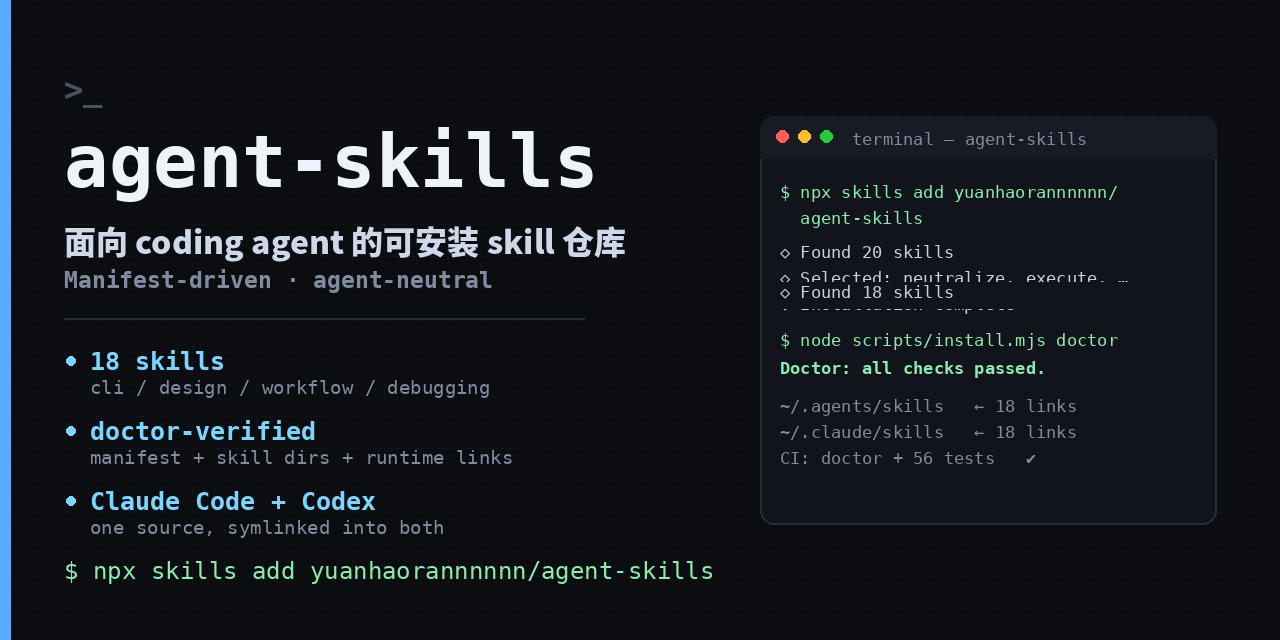
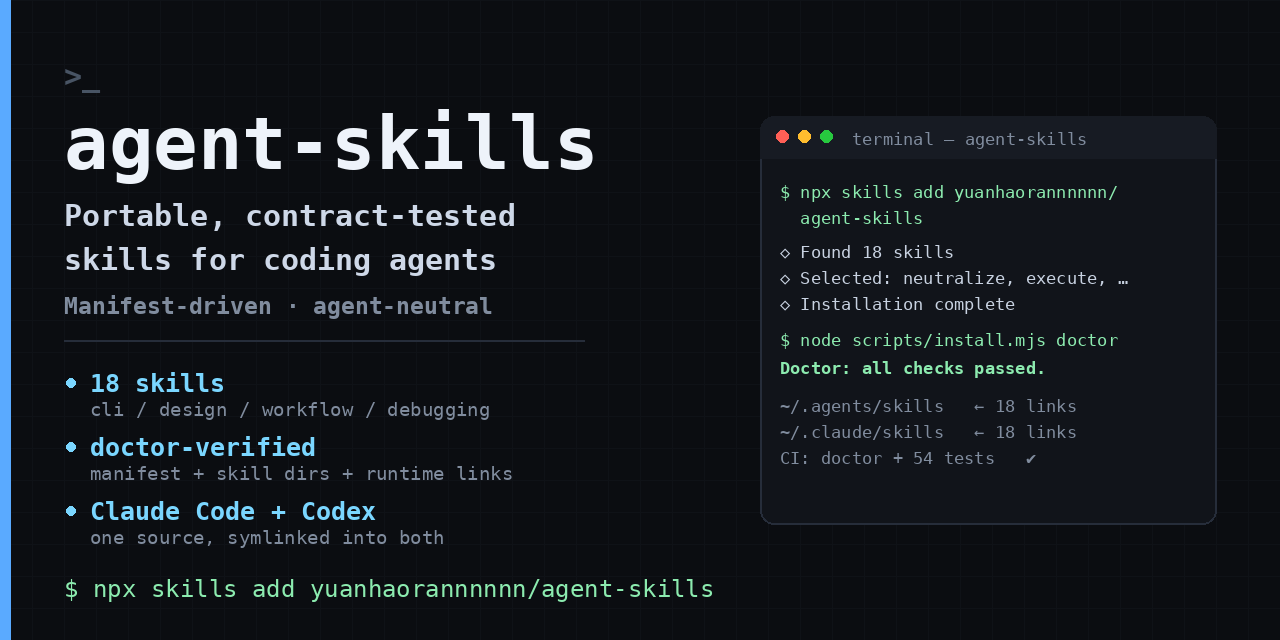
docs(readme): make English the default front page, keep 中文 mirror
- README.md is now English (GitHub default landing page for overseas visitors)
- README.zh-CN.md keeps the Chinese copy, both link to each other
- assets/social-preview.png is English, social-preview.zh.png Chinese
- maturity section states plainly that skill bodies are Chinese today

diff --git a/README.md b/README.md
@@ -1,6 +1,8 @@
 # agent-skills
 
-**面向 coding agent 的可安装 skill 仓库：一次安装，Claude Code 与 Codex 同时可用。**
+**Portable skills for coding agents. Install once, run in Claude Code and Codex.**
+
+English | [中文](README.zh-CN.md)
 
 [![CI](https://github.com/yuanhaorannnnnn/agent-skills/actions/workflows/ci.yml/badge.svg)](https://github.com/yuanhaorannnnnn/agent-skills/actions/workflows/ci.yml)
 [![License: MIT](https://img.shields.io/badge/License-MIT-yellow.svg)](LICENSE)
@@ -9,28 +11,28 @@
 
 ![agent-skills](assets/social-preview.png)
 
-`manifest.yaml` 是名称、启用状态、类别、调用方式和依赖关系的事实来源，与 `skills/*/SKILL.md` 目录一一对应。安装器把启用中的 skill 符号链接到通用 Agents 目录与 Claude Code 目录，源码只有一份。
+Not a prompt dump. Every skill declares its trigger boundary, its gates and its artifacts, and the repository ships contract tests plus a `doctor` that fails when the manifest, the skill directories and the installed links disagree.
 
-> Not a prompt dump. Every skill declares its trigger boundary, its gates and its artifacts; the repository ships contract tests plus a `doctor` that fails when the manifest, the skill directories and the installed links disagree.
+`manifest.yaml` is the source of truth for each skill's `enabled` flag, category, invocation mode, role and dependencies, and it maps one-to-one onto `skills/*/SKILL.md`. The installer symlinks the enabled set into the generic Agents directory and the Claude Code directory, so the source stays single.
 
-## 为什么不是一个提示词合集
+## Why this is not another prompt collection
 
-- **声明式注册表**：`manifest.yaml` 记录每个 skill 的 `enabled`、`category`、`invocation`、`role` 和 `calls`，`doctor` 校验调用关系是否合法。
-- **可验证契约**：仓库级测试检查 skill 目录、引用、调用边界与工作流状态；CI 在每次 push 与 PR 上执行 `doctor` 加三个测试套件。
-- **agent 无关**：安装器只做符号链接，不绑定单一产品，也不覆盖其他来源的链接。
-- **gate 优先**：高风险工作流把确认、验证、外部状态变更写成显式 gate，而不是默认自动执行。
+- **Declarative registry** — `manifest.yaml` records `enabled`, `category`, `invocation`, `role` and `calls` per skill; `doctor` validates the call graph, so an orchestrator can never call a user-invoked skill by accident.
+- **Contract tests** — repository-level tests check skill directories, references, invocation boundaries and workflow state; CI runs `doctor` plus three test suites on every push and pull request.
+- **Agent-neutral** — the installer only creates symlinks. It does not bind to one product and does not overwrite links owned by other sources.
+- **Gates before actions** — high-risk workflows encode confirmation, verification and external state changes as explicit gates instead of running by default.
 
-## 快速开始
+## Quick start
 
-**方式一：标准 skills CLI**（推荐，无需 clone）
+**Option 1 — the standard skills CLI** (no clone required)
 
 ```bash
-npx skills add yuanhaorannnnnn/agent-skills                                   # 安装全部
-npx skills add yuanhaorannnnnn/agent-skills --list                            # 先看清单
-npx skills add yuanhaorannnnnn/agent-skills -s neutralize -a codex            # 装单个
+npx skills add yuanhaorannnnnn/agent-skills                                   # install all
+npx skills add yuanhaorannnnnn/agent-skills --list                            # preview first
+npx skills add yuanhaorannnnnn/agent-skills -s neutralize -a codex            # one skill
 ```
 
-**方式二：clone 本地安装**（需要 Node.js 18+）
+**Option 2 — clone and install locally** (Node.js 18+)
 
 ```bash
 git clone https://github.com/yuanhaorannnnnn/agent-skills.git ~/.agents/repos/agent-skills
@@ -40,96 +42,98 @@ node scripts/install.mjs install
 node scripts/install.mjs doctor
 ```
 
-安装会为所有启用中的 skill 和共享 `.scripts` 创建符号链接：
+The installer links every enabled skill plus the shared `.scripts` directory:
 
 ```text
 ~/.agents/skills/
 ~/.claude/skills/
 ```
 
-后续更新：
+Updating later:
 
 ```bash
-node scripts/install.mjs update    # git pull --ff-only 后重新安装
+node scripts/install.mjs update    # git pull --ff-only, then reinstall
 ```
 
-## 工作流闭环
+## The workflow it encodes
 
 ```text
-理解             学习             执行             校验             收尾
+INTAKE           STUDY            EXECUTE          VERIFY           SHIP
 ┌────────────┐   ┌────────────┐   ┌────────────┐   ┌────────────┐   ┌────────────┐
 │passdown    │   │chart       │   │execute     │   │traceback   │   │sanitize    │
-│接手上下文  │   │学习调研    │   │委托执行    │   │交付对齐    │   │提交收尾    │
+│handoff     │   │study hub   │   │run task    │   │align       │   │close out   │
 └────────────┘   └────────────┘   └────────────┘   └────────────┘   └────────────┘
 
-出问题：neutralize 定位根因 → repair 缺陷闭环 → traceback 回归对齐
-有收获：codify 沉淀 guardrail → after-action 故障复盘
+When something breaks: neutralize (root cause) → repair (bug ticket) → traceback (regression alignment)
+When something is learned: codify (guardrail) → after-action (post-mortem)
 ```
 
-skill 按自身边界自动触发：写设计文档走 `conops`，缺陷单走 `repair`，出事故走 `after-action`。
+Skills also fire from their own trigger boundaries: design docs route to `conops`, incident write-ups to `after-action`.
 
-## Skill 目录
+## Skill catalog
 
-| Skill | Category | Invocation | Role | 做什么 |
+| Skill | Category | Invocation | Role | What it does |
 |---|---|---|---|---|
-| `acquisition` | media | user | adapter | 视频/文章/PDF 摄入知识库 |
-| `after-action` | workflow | model | renderer | 故障复盘记录 |
-| `breach` | design | model | renderer | 单页 HTML 交付页 |
-| `chart` | learning | user | orchestrator | 软件/仓库 Study Hub |
-| `codify` | workflow | model | discipline | 沉淀可复用 guardrail |
-| `conops` | workflow | model | renderer | 技术开发设计方案 |
-| `cover` | design | user | renderer | 设计规范（DESIGN.md） |
-| `execute` | workflow | model | orchestrator | 执行任务并留可恢复记录 |
-| `go-nogo` | meta | model | discipline | 判断该不该做、该不该建 skill |
-| `herdr` | automation | model | adapter | 控制 Herdr pane |
-| `neutralize` | debugging | model | discipline | 根因定位与邻近扫描 |
-| `paperwork` | writing | model | discipline | 技术文档起草与重写 |
-| `passdown` | workflow | user | adapter | 跨 agent 会话交接 |
-| `repair` | workflow | user | orchestrator | 云效缺陷单全流程修复 |
-| `sanitize` | workflow | user | orchestrator | 收尾提交 / 完整技术报告 |
-| `tasking` | workflow | user | orchestrator | 需求开发四阶段指挥 |
-| `traceback` | review | model | discipline | 设计-实现-测试三方对齐 |
-| `x-likes-digest` | automation | user | adapter | X 点赞周报 |
+| `acquisition` | media | user | adapter | Ingest videos, articles and PDFs into a knowledge base |
+| `after-action` | workflow | model | renderer | Write a post-mortem for a hard fix |
+| `breach` | design | model | renderer | Single-page HTML deliverables (status, flowcharts, digests) |
+| `chart` | learning | user | orchestrator | Build a durable Study Hub for a repo or product |
+| `codify` | workflow | model | discipline | Distill one reusable guardrail from a mistake |
+| `conops` | workflow | model | renderer | Technical design document for review |
+| `cover` | design | user | renderer | Generate a DESIGN.md token spec |
+| `execute` | workflow | model | orchestrator | Run a task and leave a resumable record |
+| `go-nogo` | meta | model | discipline | Decide whether a new skill or tool is worth building |
+| `herdr` | automation | model | adapter | Inspect and drive Herdr panes |
+| `neutralize` | debugging | model | discipline | Root-cause a defect, then scan for the same pattern nearby |
+| `paperwork` | writing | model | discipline | Draft or rewrite technical documents around reader task and evidence |
+| `passdown` | workflow | user | adapter | Hand off context from another agent session |
+| `repair` | workflow | user | orchestrator | Four-stage bug-ticket workflow (Yunxiao) |
+| `sanitize` | workflow | user | orchestrator | Close out a task with commits, or write a full technical report |
+| `tasking` | workflow | user | orchestrator | Four-stage requirement workflow (Yunxiao) |
+| `traceback` | review | model | discipline | Design → implementation → tests alignment gate |
+| `x-likes-digest` | automation | user | adapter | Weekly digest of liked posts on X |
 
-新增、移除或禁用 skill 时，先更新 `manifest.yaml`，再同步本表，并运行完整验证。
+Adding, removing or disabling a skill means editing `manifest.yaml` first, then this table, then running the full verification.
 
-## 验证
+## Verification
 
 ```bash
-node scripts/install.mjs list       # 按类别列出已启用 skill
-node scripts/install.mjs doctor     # 检查 manifest、skill 文件和已安装链接
+node scripts/install.mjs list       # list enabled skills by category
+node scripts/install.mjs doctor     # check manifest, skill dirs and installed links
 
 python3 -m unittest discover -s tests -p 'test_*.py'
 python3 -m unittest discover -s skills/acquisition/tests -p 'test_*.py'
 python3 -m unittest discover -s skills/passdown/tests -p 'test_*.py'
 ```
 
-CI 在每次 push 与 PR 上执行同一组命令，徽章状态就是真实结果。
+CI runs the same commands on every push and pull request; the badge above is the result, not a claim.
 
-## 目录结构
+## Repository layout
 
 ```text
 skills/<skill-name>/
-├── SKILL.md            # skill 定义与触发边界
-├── references/         # 参考契约（可选）
-├── scripts/            # gate 或辅助脚本（可选）
-├── evals/              # 触发评测（可选）
-└── templates/          # 输出模板（可选）
+├── SKILL.md            # skill definition and trigger boundary
+├── references/         # reference contracts (optional)
+├── scripts/            # gates and helper scripts (optional)
+├── evals/              # trigger evals (optional)
+└── templates/          # output templates (optional)
 scripts/
-├── install.mjs         # 安装、更新、列出与 doctor
-├── skill_telemetry.py  # 隐私安全的本地结果事件
+├── install.mjs         # install, update, list, doctor
+├── skill_telemetry.py  # privacy-safe local outcome events
 └── ...
-manifest.yaml           # skill 注册表
-tests/                  # 仓库级契约与安装测试
+manifest.yaml           # skill registry
+tests/                  # repository contract and install tests
 ```
 
-## 贡献与安全
+## Contributing and security
 
-提交 skill 或工作流修改前，请阅读 [CONTRIBUTING.md](CONTRIBUTING.md)。安全问题请按 [SECURITY.md](SECURITY.md) 私下报告，不要先开公开 issue。
+Read [CONTRIBUTING.md](CONTRIBUTING.md) before changing a skill or workflow. Report security issues privately through [SECURITY.md](SECURITY.md) instead of opening a public issue.
 
-## 成熟度边界
+## Maturity boundaries
 
-该仓库仍在快速迭代，尚未发布稳定 release；skill 名称、调用契约和安装范围可能变化，当前没有可核验的外部采用量或兼容性承诺。仓库内容以中文为主，英文使用者可先读各 `SKILL.md` 的 `description` 字段判断触发边界。
+The repository is iterating quickly and has no stable release; skill names, invocation contracts and install scope can change. There is no externally verified adoption or compatibility promise yet.
+
+**Language:** the skill bodies are currently written in Chinese, because that is the language they were developed and used in. The `description` frontmatter and the catalog above are the reliable English entry point. A translated English pass over the skill bodies is planned, not shipped — treat this README as accurate about what exists today.
 
 ## License
 

diff --git a/README.zh-CN.md b/README.zh-CN.md
@@ -1,0 +1,138 @@
+# agent-skills
+
+**面向 coding agent 的可安装 skill 仓库：一次安装，Claude Code 与 Codex 同时可用。**
+
+[English](README.md) | 中文
+
+[![CI](https://github.com/yuanhaorannnnnn/agent-skills/actions/workflows/ci.yml/badge.svg)](https://github.com/yuanhaorannnnnn/agent-skills/actions/workflows/ci.yml)
+[![License: MIT](https://img.shields.io/badge/License-MIT-yellow.svg)](LICENSE)
+[![Node](https://img.shields.io/badge/node-%3E%3D18-brightgreen.svg)](package.json)
+[![skills.sh](https://skills.sh/b/yuanhaorannnnnn/agent-skills)](https://skills.sh/yuanhaorannnnnn/agent-skills)
+
+![agent-skills](assets/social-preview.zh.png)
+
+`manifest.yaml` 是名称、启用状态、类别、调用方式和依赖关系的事实来源，与 `skills/*/SKILL.md` 目录一一对应。安装器把启用中的 skill 符号链接到通用 Agents 目录与 Claude Code 目录，源码只有一份。
+
+> Not a prompt dump. Every skill declares its trigger boundary, its gates and its artifacts; the repository ships contract tests plus a `doctor` that fails when the manifest, the skill directories and the installed links disagree.
+
+## 为什么不是一个提示词合集
+
+- **声明式注册表**：`manifest.yaml` 记录每个 skill 的 `enabled`、`category`、`invocation`、`role` 和 `calls`，`doctor` 校验调用关系是否合法。
+- **可验证契约**：仓库级测试检查 skill 目录、引用、调用边界与工作流状态；CI 在每次 push 与 PR 上执行 `doctor` 加三个测试套件。
+- **agent 无关**：安装器只做符号链接，不绑定单一产品，也不覆盖其他来源的链接。
+- **gate 优先**：高风险工作流把确认、验证、外部状态变更写成显式 gate，而不是默认自动执行。
+
+## 快速开始
+
+**方式一：标准 skills CLI**（推荐，无需 clone）
+
+```bash
+npx skills add yuanhaorannnnnn/agent-skills                                   # 安装全部
+npx skills add yuanhaorannnnnn/agent-skills --list                            # 先看清单
+npx skills add yuanhaorannnnnn/agent-skills -s neutralize -a codex            # 装单个
+```
+
+**方式二：clone 本地安装**（需要 Node.js 18+）
+
+```bash
+git clone https://github.com/yuanhaorannnnnn/agent-skills.git ~/.agents/repos/agent-skills
+cd ~/.agents/repos/agent-skills
+npm ci
+node scripts/install.mjs install
+node scripts/install.mjs doctor
+```
+
+安装会为所有启用中的 skill 和共享 `.scripts` 创建符号链接：
+
+```text
+~/.agents/skills/
+~/.claude/skills/
+```
+
+后续更新：
+
+```bash
+node scripts/install.mjs update    # git pull --ff-only 后重新安装
+```
+
+## 工作流闭环
+
+```text
+理解             学习             执行             校验             收尾
+┌────────────┐   ┌────────────┐   ┌────────────┐   ┌────────────┐   ┌────────────┐
+│passdown    │   │chart       │   │execute     │   │traceback   │   │sanitize    │
+│接手上下文  │   │学习调研    │   │委托执行    │   │交付对齐    │   │提交收尾    │
+└────────────┘   └────────────┘   └────────────┘   └────────────┘   └────────────┘
+
+出问题：neutralize 定位根因 → repair 缺陷闭环 → traceback 回归对齐
+有收获：codify 沉淀 guardrail → after-action 故障复盘
+```
+
+skill 按自身边界自动触发：写设计文档走 `conops`，缺陷单走 `repair`，出事故走 `after-action`。
+
+## Skill 目录
+
+| Skill | Category | Invocation | Role | 做什么 |
+|---|---|---|---|---|
+| `acquisition` | media | user | adapter | 视频/文章/PDF 摄入知识库 |
+| `after-action` | workflow | model | renderer | 故障复盘记录 |
+| `breach` | design | model | renderer | 单页 HTML 交付页 |
+| `chart` | learning | user | orchestrator | 软件/仓库 Study Hub |
+| `codify` | workflow | model | discipline | 沉淀可复用 guardrail |
+| `conops` | workflow | model | renderer | 技术开发设计方案 |
+| `cover` | design | user | renderer | 设计规范（DESIGN.md） |
+| `execute` | workflow | model | orchestrator | 执行任务并留可恢复记录 |
+| `go-nogo` | meta | model | discipline | 判断该不该做、该不该建 skill |
+| `herdr` | automation | model | adapter | 控制 Herdr pane |
+| `neutralize` | debugging | model | discipline | 根因定位与邻近扫描 |
+| `paperwork` | writing | model | discipline | 技术文档起草与重写 |
+| `passdown` | workflow | user | adapter | 跨 agent 会话交接 |
+| `repair` | workflow | user | orchestrator | 云效缺陷单全流程修复 |
+| `sanitize` | workflow | user | orchestrator | 收尾提交 / 完整技术报告 |
+| `tasking` | workflow | user | orchestrator | 需求开发四阶段指挥 |
+| `traceback` | review | model | discipline | 设计-实现-测试三方对齐 |
+| `x-likes-digest` | automation | user | adapter | X 点赞周报 |
+
+新增、移除或禁用 skill 时，先更新 `manifest.yaml`，再同步本表，并运行完整验证。
+
+## 验证
+
+```bash
+node scripts/install.mjs list       # 按类别列出已启用 skill
+node scripts/install.mjs doctor     # 检查 manifest、skill 文件和已安装链接
+
+python3 -m unittest discover -s tests -p 'test_*.py'
+python3 -m unittest discover -s skills/acquisition/tests -p 'test_*.py'
+python3 -m unittest discover -s skills/passdown/tests -p 'test_*.py'
+```
+
+CI 在每次 push 与 PR 上执行同一组命令，徽章状态就是真实结果。
+
+## 目录结构
+
+```text
+skills/<skill-name>/
+├── SKILL.md            # skill 定义与触发边界
+├── references/         # 参考契约（可选）
+├── scripts/            # gate 或辅助脚本（可选）
+├── evals/              # 触发评测（可选）
+└── templates/          # 输出模板（可选）
+scripts/
+├── install.mjs         # 安装、更新、列出与 doctor
+├── skill_telemetry.py  # 隐私安全的本地结果事件
+└── ...
+manifest.yaml           # skill 注册表
+tests/                  # 仓库级契约与安装测试
+```
+
+## 贡献与安全
+
+提交 skill 或工作流修改前，请阅读 [CONTRIBUTING.md](CONTRIBUTING.md)。安全问题请按 [SECURITY.md](SECURITY.md) 私下报告，不要先开公开 issue。
+
+## 成熟度边界
+
+该仓库仍在快速迭代，尚未发布稳定 release；skill 名称、调用契约和安装范围可能变化，当前没有可核验的外部采用量或兼容性承诺。仓库内容以中文为主，英文使用者可先读各 `SKILL.md` 的 `description` 字段判断触发边界。
+
+## License
+
+[MIT](LICENSE)
